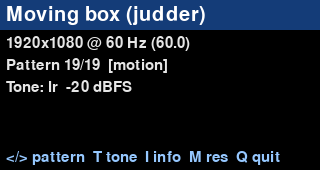
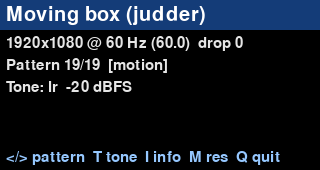
Keep LCD updates off the HDMI render loop; count dropped frames
The once-a-second LCD redraw ran on the render thread and could miss a
vblank. It now runs on a background thread. The info overlay and LCD
show dropped frames (gaps over 1.5 frame periods) and the worst frame
time, ignoring the rebuild after a pattern or mode change. Bump to 0.2.1.

Claude-Session: https://claude.ai/code/session_01GkgDxevuN43pMxpN8QEAxN

Changed region(s): [[0.5938, 0.2059, 0.7812, 0.2941]]

diff --git a/av-tester/zeroav/app.py b/av-tester/zeroav/app.py
@@ -48,9 +48,9 @@ def render_all(out_dir: str, size: tuple[int, int]) -> None:
         print(fn)
 
 
-def status_lines(size, refresh, fps, idx, total, category, tone, dbfs) -> list[str]:
+def status_lines(size, refresh, fps, idx, total, category, tone, dbfs, dropped=0) -> list[str]:
     return [
-        f"{size[0]}x{size[1]} @ {refresh or '?'} Hz ({fps:.1f})",
+        f"{size[0]}x{size[1]} @ {refresh or '?'} Hz ({fps:.1f})  drop {dropped}",
         f"Pattern {idx + 1}/{total}  [{category}]",
         f"Tone: {tone}  {dbfs:.0f} dBFS",
     ]
@@ -119,6 +119,9 @@ def run(args) -> None:
     patterns = all_patterns()
     idx, frame, show_info = 0, 0, False
     clock = pygame.time.Clock()
+    dropped, worst_ms, worst_win, nominal = 0, 0.0, 0.0, 0.0
+    last_present = time.perf_counter()
+    skip_gap = True
     fps_measured, t0, n0 = 0.0, time.monotonic(), 0
     try:
         rates = pygame.display.get_desktop_refresh_rates()
@@ -165,28 +168,46 @@ def run(args) -> None:
                 mode_idx = (mode_idx + 1) % len(modes)
                 out.open(modes[mode_idx])
                 size = out.size
+                dropped, nominal = 0, 0.0
             dirty = True
+            skip_gap = True  # a pattern or mode change rebuilds the texture
 
         pat = patterns[idx]
         overlay = None
         if show_info:
             overlay = [f"{size[0]}x{size[1]}  set {refresh or '?'} Hz  measured {fps_measured:.2f} fps",
+                       f"dropped frames: {dropped}   worst frame {worst_ms:.1f} ms",
                        pat.name]
         # Every loop presents one frame, synced to vblank: the GPU redraws the
         # cached texture, so this runs at the HDMI refresh rate.
         out.frame(pat, frame, overlay)
         frame += 1
+        # Dropped-frame check: a gap between presents longer than 1.5 frame
+        # periods means at least one vblank was missed.
+        tp = time.perf_counter()
+        gap = tp - last_present
+        last_present = tp
+        if skip_gap:
+            skip_gap = False
+        else:
+            worst_win = max(worst_win, gap)
+            if nominal and gap > 1.5 * nominal:
+                dropped += round(gap / nominal) - 1
         clock.tick(125)  # safety cap only, in case vsync isn't honoured
 
         now = time.monotonic()
         if now - t0 >= 1.0:
             fps_measured = (frame - n0) / (now - t0)
             t0, n0 = now, frame
+            worst_ms, worst_win = worst_win * 1000, 0.0
+            # Learn the frame period from the display (or from what we see).
+            if not nominal and fps_measured > 20:
+                nominal = 1.0 / (refresh if refresh else round(fps_measured))
             dirty = True
         if dirty:
             tone = tones.mode or "off"
-            lcd.show(pat.name, status_lines(size, refresh, fps_measured, idx, len(patterns),
-                                            pat.category, tone, tones.dbfs), KEYS_HELP)
+            lcd.show_async(pat.name, status_lines(size, refresh, fps_measured, idx, len(patterns),
+                                                  pat.category, tone, tones.dbfs, dropped), KEYS_HELP)
             dirty = False
 
 

diff --git a/av-tester/zeroav/lcd.py b/av-tester/zeroav/lcd.py
@@ -9,6 +9,7 @@ from __future__ import annotations
 
 import glob
 import os
+import threading
 
 import numpy as np
 import pygame
@@ -47,6 +48,27 @@ class LcdPanel:
         self._last_text: list[str] = []
         self.font_big = pygame.font.Font(None, 30)
         self.font = pygame.font.Font(None, 22)
+        self._pending = None
+        self._cv = threading.Condition()
+        self._worker = None
+
+    def show_async(self, title: str, lines: list[str], hint: str = "") -> None:
+        """Queue a status update and return at once. A background thread
+        draws it, so the HDMI render loop never waits on the LCD."""
+        with self._cv:
+            self._pending = (title, list(lines), hint)
+            if self._worker is None:
+                self._worker = threading.Thread(target=self._run, daemon=True)
+                self._worker.start()
+            self._cv.notify()
+
+    def _run(self) -> None:
+        while True:
+            with self._cv:
+                while self._pending is None:
+                    self._cv.wait()
+                job, self._pending = self._pending, None
+            self.show(*job)
 
     def show(self, title: str, lines: list[str], hint: str = "") -> None:
         s = self.surf
